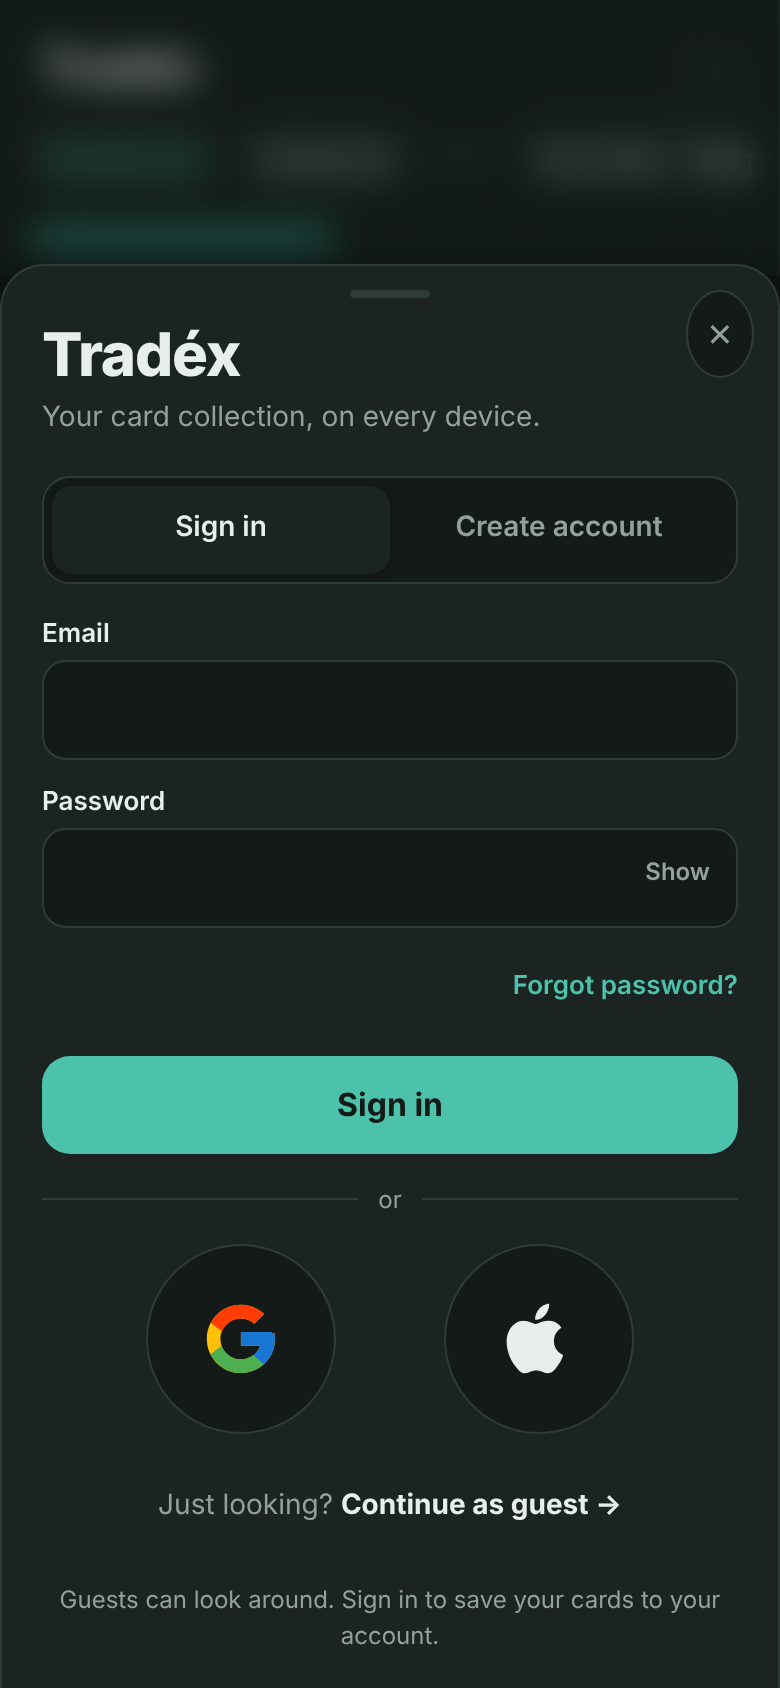
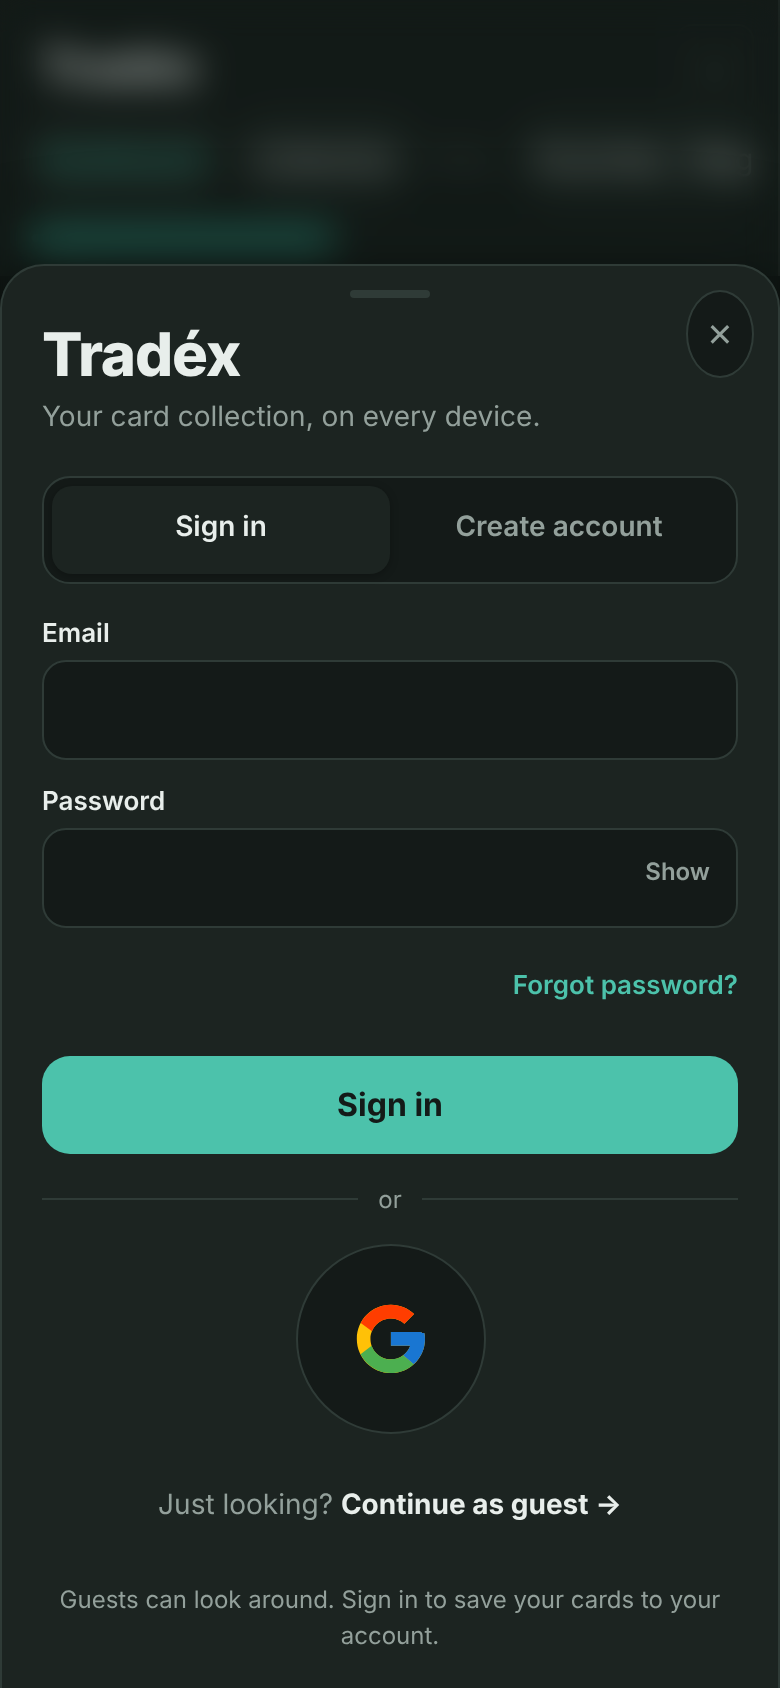
Hide the Apple sign-in button for now (#8)
Only Google, email and guest are offered. The Apple icon stays in the code
so it can be brought back by adding 'apple' to the list.

Claude-Session: https://claude.ai/code/session_01K6ofJxh6QarDQ2gKnJ83gJ

Changed region(s): [[0.6462, 0.7701, 0.7385, 0.8318], [0.4615, 0.7701, 0.5538, 0.8318], [0.2462, 0.7701, 0.3692, 0.8318]]

diff --git a/js/account.js b/js/account.js
@@ -161,7 +161,7 @@ let view=LS('tradex_auth_view')==='up'?'up':'in',email=LS('tradex_last_email')||
 const ttl=s=>s[0].toUpperCase()+s.slice(1);
 function screen(){const up=view==='up',fan='',x=`<button type="button" class="x" id="txguest2" aria-label="Close and continue as guest">✕</button>`,head='<div class="txlogo">Tradéx</div><p class="txtag">Your card collection, on every device.</p>';
  const emailF=`<div class="fld"><label for="txe">Email</label><input id="txe" type="email" autocomplete="email" inputmode="email" autocapitalize="off" spellcheck="false" required value="${esc(email)}"></div>`;
- if(view==='in'||view==='up'){const pv='<div class="oauth">'+['google','apple'].map(p=>`<button type="button" class="circ" data-oauth="${p}" aria-label="Continue with ${ttl(p)}" title="Continue with ${ttl(p)}">${ICON[p]}</button>`).join('')+'</div>';
+ if(view==='in'||view==='up'){const pv='<div class="oauth">'+['google'].map(p=>`<button type="button" class="circ" data-oauth="${p}" aria-label="Continue with ${ttl(p)}" title="Continue with ${ttl(p)}">${ICON[p]}</button>`).join('')+'</div>';
   return fan+`<form class="bx" id="txf" novalidate>${x}${head}<div class="seg" role="tablist"><button type="button" role="tab" data-view="in" aria-selected="${!up}">Sign in</button><button type="button" role="tab" data-view="up" aria-selected="${up}">Create account</button></div>
   ${emailF}
   <div class="fld"><label for="txp">Password</label><input id="txp" type="password" autocomplete="${up?'new-password':'current-password'}" minlength="8" required><button type="button" class="eye" id="txeye" aria-label="Show password">Show</button></div>
